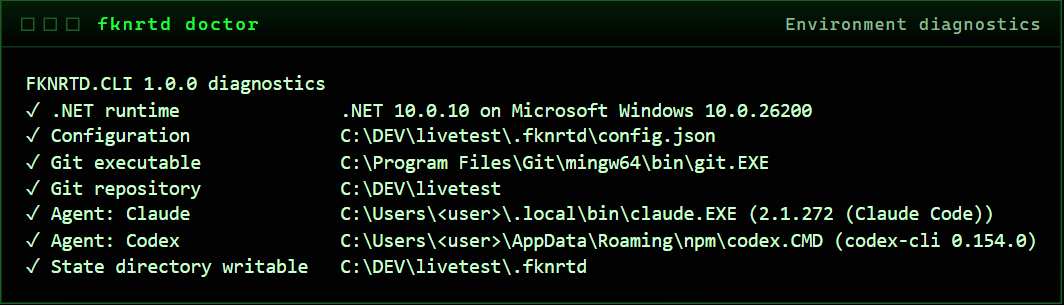
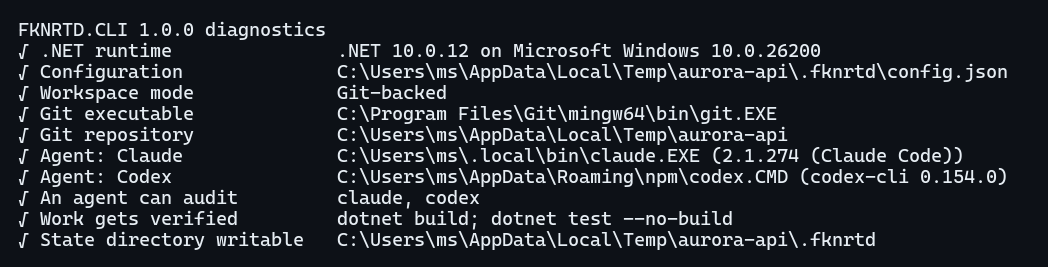
Generate the two captures that were still hand-made
doctor.png and statusline.png were the last stale artifacts: both are command
output rather than dashboard frames, so the capture script could not produce
them, and both had been showing a version of the product that no longer existed
— the old glyphs, the old statusline format, and a doctor without its two new
checks.

The script runs the real binary against a throwaway workspace it builds itself:
a short, fixed path so absolute paths in the output stay legible, and a project
file so setup detects build and test commands and the capture shows a fully
healthy workspace rather than the advisory about having nothing verifying it.

Every image in the README is now generated, so none of them can go on showing a
product that has moved.

Verified locally: both frames regenerated and read.

Changed region(s): [[0.0, 0.0, 1.0, 0.9288], [0.0, 0.9888, 1.0, 1.0], [0.7328, 0.0599, 0.9771, 0.1199]]

diff --git a/scripts/capture-frames.py b/scripts/capture-frames.py
@@ -13,6 +13,7 @@ the zero-dependency rule in AGENTS.md is about what `fknrtd` itself installs.
     python scripts/capture-frames.py wizard     # just one
 """
 
+import io
 import os
 import re
 import subprocess
@@ -23,6 +24,7 @@ from PIL import Image, ImageDraw, ImageFont
 ROOT = os.path.dirname(os.path.dirname(os.path.abspath(__file__)))
 OUT = os.path.join(ROOT, "docs", "screenshots")
 SELFTEST = os.path.join(ROOT, "tests", "FKNRTD.SelfTest", "FKNRTD.SelfTest.csproj")
+FKNRTD = os.path.join(ROOT, "src", "FKNRTD.Cli", "bin", "Release", "net10.0", "fknrtd.exe")
 
 # scene name -> (output file, columns, rows)
 FRAMES = {
@@ -40,6 +42,19 @@ FRAMES = {
     "settings": ("settings", 112, 32),
     "welcome": ("welcome", 118, 32),
 }
+
+# Frames that are a command's own output rather than a dashboard scene. Each runs against a
+# throwaway workspace so the capture shows real output and not a transcription of it.
+COMMANDS = {
+    "doctor": ["doctor", "-color"],
+    "statusline": ["telemetry", "claude-statusline", "-color"],
+}
+
+STATUSLINE_PAYLOAD = (
+    '{"workspace":{"current_dir":%s},'
+    '"context_window":{"used_percentage":38},'
+    '"rate_limits":{"five_hour":{"used_percentage":22},"seven_day":{"used_percentage":36}}}'
+)
 
 BACKGROUND = (13, 17, 23)
 FOREGROUND = (230, 237, 243)
@@ -121,15 +136,67 @@ def capture(name, scene, columns, rows):
     print(f"  {name}.png  {size[0]}x{size[1]}  from scene '{scene}' at {columns}x{rows}")
 
 
+def temporary_workspace():
+    """A throwaway Git repository with a workspace in it, for the command captures."""
+    import tempfile
+
+    # A fixed, short, plausible name: doctor prints absolute paths, and a random temp directory
+    # makes the capture both wide and obviously synthetic.
+    import shutil
+    root = os.path.join(tempfile.gettempdir(), "aurora-api")
+    shutil.rmtree(root, ignore_errors=True)
+    os.makedirs(root, exist_ok=True)
+    run = lambda *args: subprocess.run(args, cwd=root, capture_output=True, text=True)
+    run("git", "init", "-q", "-b", "main", ".")
+    with io.open(os.path.join(root, "README.md"), "w", encoding="utf-8") as handle:
+        handle.write("# aurora-api\n")
+    # A project file so setup detects build and test commands. That makes the doctor capture show
+    # a fully healthy workspace, which is the representative case and a far narrower frame than the
+    # advisory about having nothing that verifies the work.
+    with io.open(os.path.join(root, "aurora-api.csproj"), "w", encoding="utf-8") as handle:
+        handle.write('<Project Sdk="Microsoft.NET.Sdk"></Project>')
+    run("git", "add", "-A")
+    run("git", "-c", "user.email=a@b", "-c", "user.name=n", "commit", "-qm", "init")
+    subprocess.run([FKNRTD, "init", "-yes", "-root", root], capture_output=True, text=True)
+    return root
+
+
+def capture_command(name, arguments):
+    root = temporary_workspace()
+    payload = None
+    if name == "statusline":
+        import json
+        payload = STATUSLINE_PAYLOAD % json.dumps(root)
+
+    result = subprocess.run(
+        [FKNRTD] + arguments + ["-root", root],
+        input=payload, capture_output=True, text=True, encoding="utf-8", cwd=root)
+    frame = (result.stdout or "").rstrip("\n")
+    if not frame:
+        raise SystemExit(f"{name} produced no output:\n{result.stderr}")
+
+    # Pad to a tidy rectangle so the image is not ragged.
+    rows = frame.split("\n")
+    width = max(len(SEQUENCE.sub("", row)) for row in rows) + 2
+    frame = "\n".join(row + " " * (width - len(SEQUENCE.sub("", row))) for row in rows)
+    path = os.path.join(OUT, name + ".png")
+    size = render(frame, path)
+    print(f"  {name}.png  {size[0]}x{size[1]}  from `fknrtd {' '.join(arguments)}`")
+
+
 def main():
     os.makedirs(OUT, exist_ok=True)
-    wanted = sys.argv[1:] or list(FRAMES)
-    unknown = [name for name in wanted if name not in FRAMES]
+    known = list(FRAMES) + list(COMMANDS)
+    wanted = sys.argv[1:] or known
+    unknown = [name for name in wanted if name not in known]
     if unknown:
-        raise SystemExit(f"unknown frame(s): {', '.join(unknown)}\nknown: {', '.join(FRAMES)}")
+        raise SystemExit(f"unknown frame(s): {', '.join(unknown)}\nknown: {', '.join(known)}")
     print(f"Capturing {len(wanted)} frame(s) into docs/screenshots:")
     for name in wanted:
-        capture(name, *FRAMES[name])
+        if name in COMMANDS:
+            capture_command(name, COMMANDS[name])
+        else:
+            capture(name, *FRAMES[name])
 
 
 if __name__ == "__main__":

diff --git a/README.md b/README.md
@@ -226,7 +226,9 @@ The statusline inside Claude Code, with no remote call while rendering:
 ![The FKNRTD.CLI statusline](docs/screenshots/statusline.png)
 
 > **Reproduce these.** `python scripts/capture-frames.py` regenerates every frame above, or name
-> one to redo just that. Underneath, each is `fknrtd dashboard -once -color -width W -height H`:
+> one to redo just that. The dashboard frames come from the real renderer through the self-test
+> harness; the two command frames run the real binary against a throwaway workspace the script
+> creates. Underneath, each dashboard frame is `fknrtd dashboard -once -color -width W -height H`:
 > `-color` forces ANSI through a redirect, which is what makes capture possible, and `-width` and
 > `-height` make the result deterministic regardless of your terminal.
 >
